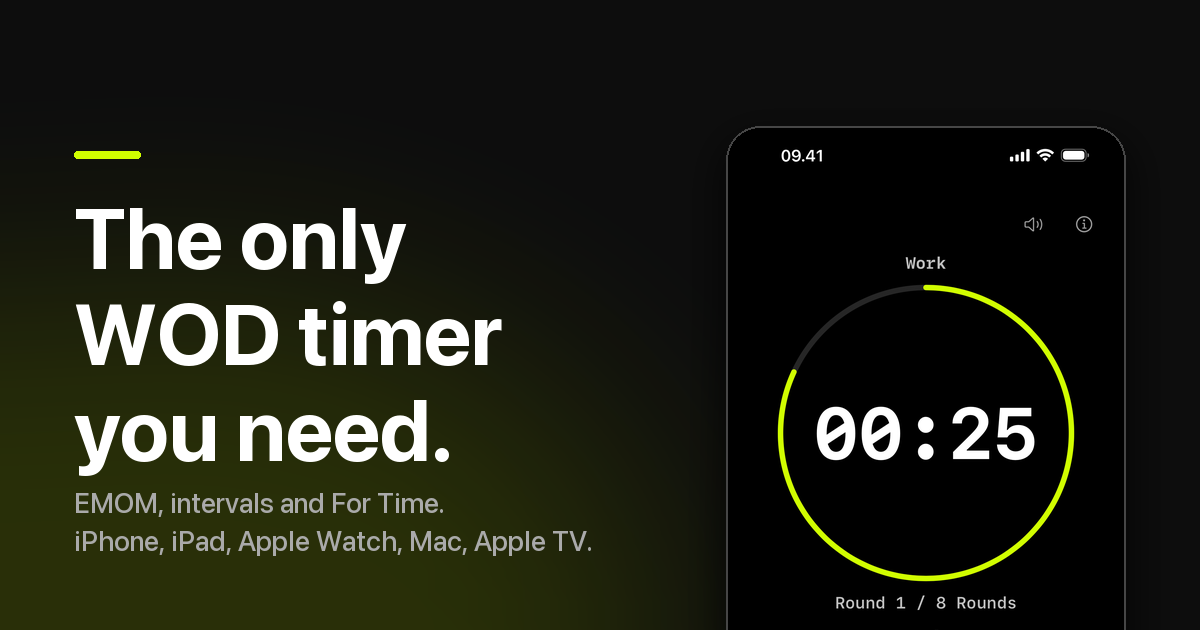
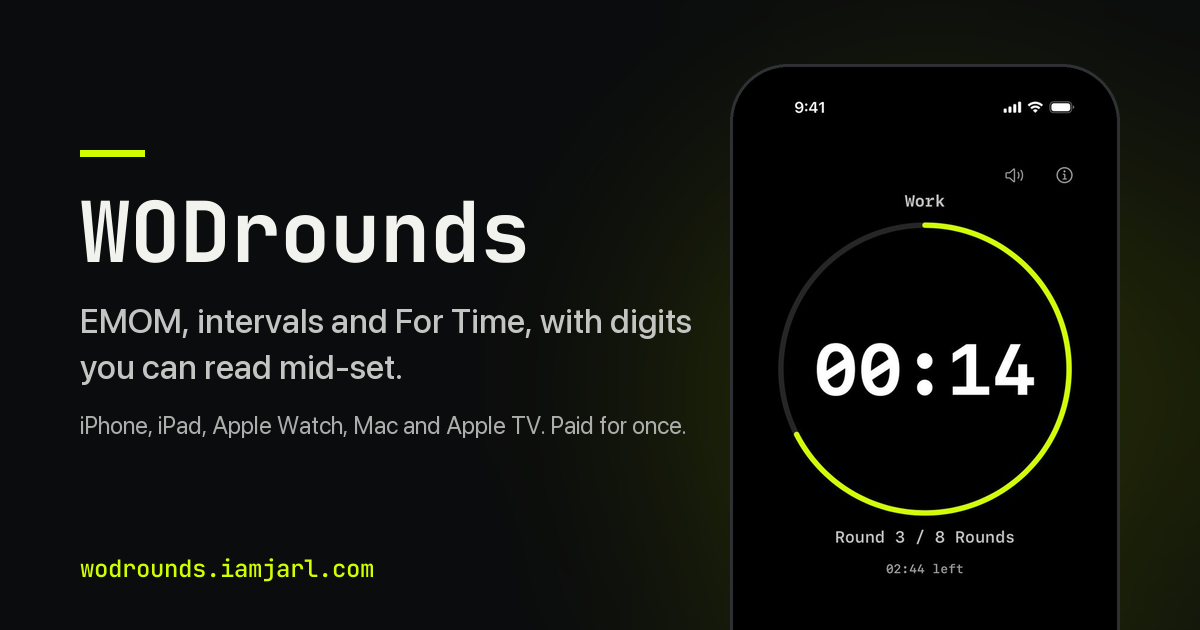
Social card for the new home (#182)
The og:image and the GitHub social preview, redrawn on the site's own
ground and accent: the name in JetBrains Mono, one outcome line, the
platforms and "paid for once", and the real Tabata capture from the
tour (round 3, 0:14 of work). appstore/social/make_card.py makes both
sizes again from the design system's font.

diff --git a/appstore/social/make_card.py b/appstore/social/make_card.py
@@ -1,0 +1,123 @@
+#!/usr/bin/env python3
+"""The social card for wodrounds.iamjarl.com (#182): the site's og:image and the repo's
+GitHub social preview, one design at two sizes.
+
+    python3 appstore/social/make_card.py <jetbrains-mono.woff2>
+
+The woff2 is the design system's (fonts/jetbrains-mono-latin-wght-normal.woff2 at the
+release the site loads). Writes docs/images/og-image.png (1200 x 630) and
+docs/images/github-social-preview.png (1280 x 640). Needs Pillow.
+
+The hub's rule (DESIGN.md, "Social cards"): the name, one line of outcome, and a real
+product screen, on the site's own ground and accent. No superlative, so the card says
+what the app does rather than the site's headline.
+"""
+from __future__ import annotations
+
+import sys
+from pathlib import Path
+
+from PIL import Image, ImageDraw, ImageFilter, ImageFont
+
+ROOT = Path(__file__).resolve().parents[2]
+SCREEN = ROOT / "docs/assets/site/tour-intervals-en.jpg"  # a Tabata, round 3, 0:14 of work
+
+# WODrounds' identity, iamjarl-design v1.25.0.
+GROUND = (0x0B, 0x0C, 0x0D)
+TEXT = (0xF2, 0xF3, 0xEF)
+TEXT_2 = (0xC4, 0xC5, 0xC2)
+TEXT_3 = (0xAD, 0xAE, 0xAB)
+ACCENT = (0xD0, 0xFF, 0x00)
+EDGE = (0x2E, 0x30, 0x33)
+
+SF = "/System/Library/Fonts/SFNS.ttf"
+OUTCOME = "EMOM, intervals and For Time, with digits you can read mid-set."
+FACTS = "iPhone, iPad, Apple Watch, Mac and Apple TV. Paid for once."
+URL = "wodrounds.iamjarl.com"
+
+
+def font(path: str, size: int, weight: str) -> ImageFont.FreeTypeFont:
+    f = ImageFont.truetype(path, size)
+    f.set_variation_by_name(weight)
+    return f
+
+
+def wrap(d: ImageDraw.ImageDraw, text: str, f, width: int) -> list[str]:
+    lines, cur = [], ""
+    for word in text.split():
+        trial = f"{cur} {word}".strip()
+        if d.textlength(trial, font=f) <= width or not cur:
+            cur = trial
+        else:
+            lines.append(cur)
+            cur = word
+    return lines + [cur]
+
+
+def phone(width: int, screen: Image.Image) -> Image.Image:
+    """The kit's plain phone: a black body, a thin edge, the screen inset. No island."""
+    s = 2
+    w = width * s
+    sh = round(screen.height * (w - 2 * 14 * s) / screen.width)
+    h = sh + 2 * 14 * s
+    body = Image.new("RGBA", (w, h), (0, 0, 0, 0))
+    d = ImageDraw.Draw(body)
+    d.rounded_rectangle((0, 0, w - 1, h - 1), radius=58 * s, fill=(0, 0, 0, 255), outline=EDGE + (255,), width=3 * s)
+    scr = screen.resize((w - 28 * s, sh), Image.LANCZOS).convert("RGBA")
+    mask = Image.new("L", scr.size, 0)
+    ImageDraw.Draw(mask).rounded_rectangle((0, 0, scr.width - 1, scr.height - 1), radius=46 * s, fill=255)
+    body.paste(scr, (14 * s, 14 * s), mask)
+    return body.resize((width, round(h / s)), Image.LANCZOS)
+
+
+def card(size: tuple[int, int], mono_path: str) -> Image.Image:
+    W, H = size
+    k = W / 1200
+    img = Image.new("RGB", size, GROUND)
+
+    # A faint lime glow behind the phone, the accent at low opacity.
+    glow = Image.new("RGB", size, GROUND)
+    gd = ImageDraw.Draw(glow)
+    cx, cy = int(W * 0.78), int(H * 0.62)
+    gd.ellipse((cx - 260 * k, cy - 260 * k, cx + 260 * k, cy + 260 * k), fill=(0x2A, 0x33, 0x05))
+    img = Image.blend(img, glow.filter(ImageFilter.GaussianBlur(120 * k)), 0.9)
+
+    d = ImageDraw.Draw(img)
+    x = int(80 * k)
+    text_w = int(W * 0.52)
+
+    mono = font(mono_path, int(84 * k), "Bold")
+    d.rectangle((x, int(150 * k), x + int(64 * k), int(156 * k)), fill=ACCENT)
+    d.text((x, int(176 * k)), "WODrounds", font=mono, fill=TEXT)
+
+    body = font(SF, int(34 * k), "Medium")
+    y = int(300 * k)
+    for ln in wrap(d, OUTCOME, body, text_w):
+        d.text((x, y), ln, font=body, fill=TEXT_2)
+        y += int(46 * k)
+
+    small = font(SF, int(24 * k), "Regular")
+    y += int(18 * k)
+    for ln in wrap(d, FACTS, small, text_w):
+        d.text((x, y), ln, font=small, fill=TEXT_3)
+        y += int(34 * k)
+
+    url = font(mono_path, int(24 * k), "Medium")
+    d.text((x, H - int(78 * k)), URL, font=url, fill=ACCENT)
+
+    # The phone, bleeding off the bottom edge so the digits sit high in the frame.
+    p = phone(int(390 * k), Image.open(SCREEN).convert("RGB"))
+    img.paste(p, (W - p.width - int(80 * k), int(64 * k)), p)
+    return img
+
+
+def main(mono_path: str) -> None:
+    out = ROOT / "docs/images"
+    card((1200, 630), mono_path).save(out / "og-image.png", optimize=True)
+    card((1280, 640), mono_path).save(out / "github-social-preview.png", optimize=True)
+    for f in ("og-image.png", "github-social-preview.png"):
+        print(f, (out / f).stat().st_size // 1024, "KB")
+
+
+if __name__ == "__main__":
+    main(sys.argv[1])
